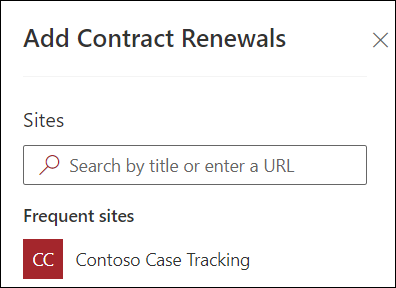
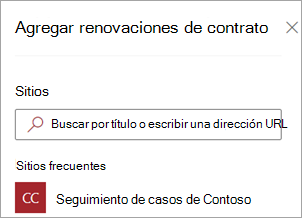
commit translated contents

Changed region(s): [[0.0, 0.0, 1.0, 1.0]]

diff --git a/microsoft-365/compliance/terms-conditions.md b/microsoft-365/compliance/terms-conditions.md
@@ -1,5 +1,5 @@
 ---
-title: Términos y condiciones de la versión de prueba de Cumplimiento de Microsoft 365
+title: Términos y condiciones de la edición de prueba de Cumplimiento de Microsoft 365
 f1.keywords:
 - NOCSH
 ms.author: v-tophillips
@@ -13,14 +13,14 @@ localization_priority: Priority
 search.appverid:
 - MOE150
 - MET150
-description: Términos y condiciones de la versión de prueba de Cumplimiento de Microsoft 365.
-ms.openlocfilehash: ab39afdc235cd27ea308ba52c17c36af9fb25bc7
-ms.sourcegitcommit: f88a0ec621e7d9bc5f376eeaf70c8a9800711f88
+description: Términos y condiciones de la edición de prueba de Cumplimiento de Microsoft 365.
+ms.openlocfilehash: b598fe5338d9bb56be98abd69205cd285b29a6bc
+ms.sourcegitcommit: 4740e69326eb7f8302eec7bab5bd516d498e4492
 ms.translationtype: HT
 ms.contentlocale: es-ES
-ms.lasthandoff: 09/15/2021
-ms.locfileid: "59357175"
+ms.lasthandoff: 09/16/2021
+ms.locfileid: "59401007"
 ---
-# <a name="microsoft-compliance-trial-terms-and-conditions"></a>Términos y condiciones de la versión de prueba de Cumplimiento de Microsoft
+# <a name="microsoft-compliance-trial-terms-and-conditions"></a>Términos y condiciones de la edición de prueba de Cumplimiento de Microsoft
 
-Al participar en la prueba gratuita (" Prueba") de los [Servicios de Cumplimiento de Microsoft], acepta estar sujeto a nuestros [Términos de servicios en línea](https://go.microsoft.com/fwlink/?linkid=2167203) y a los siguientes términos (" Términos de prueba"), siempre que, en caso de conflicto, rijan los Términos de prueba. El período de prueba será de noventa (90) días a partir de la fecha de activación de la versión de prueba. A menos que adquiera una suscripción a Cumplimiento de Microsoft antes de la expiración o finalización del período de prueba, ya no tendrá acceso a (i) los datos relacionados con las características de la edición de prueba que especificó en su cuenta y (ii) las configuraciones o personalizaciones realizadas por usted o para usted mediante las características de la versión de prueba. Microsoft se reserva el derecho de finalizar o modificar la versión de prueba y/o estos Términos de prueba en cualquier momento sin previo aviso y sin responsabilidad. El plan de prueba no está disponible para los clientes de todas las regiones y países.
+Al participar en [la edición de prueba gratuita ("Prueba") de los Servicios de cumplimiento de Microsoft](compliance-easy-trials.md), acepta estar sujeto a nuestros[Términos de servicios en línea](https://go.microsoft.com/fwlink/?linkid=2108910) y a los siguientes términos ("Términos de prueba"), siempre que, en caso de conflicto, rijan los Términos de prueba. El período de prueba será de noventa (90) días a partir de la fecha de activación de la versión de prueba. A menos que adquiera una suscripción a Cumplimiento de Microsoft antes de la expiración o finalización del período de prueba, ya no tendrá acceso a (i) los datos relacionados con las características de la edición de prueba que especificó en su cuenta y (ii) las configuraciones o personalizaciones realizadas por usted o para usted mediante las características de la edición de prueba. Microsoft se reserva el derecho de finalizar o modificar la edición de prueba y/o estos Términos de prueba en cualquier momento sin previo aviso y sin responsabilidad. La oferta de prueba no está disponible para clientes de todas las regiones y países.
